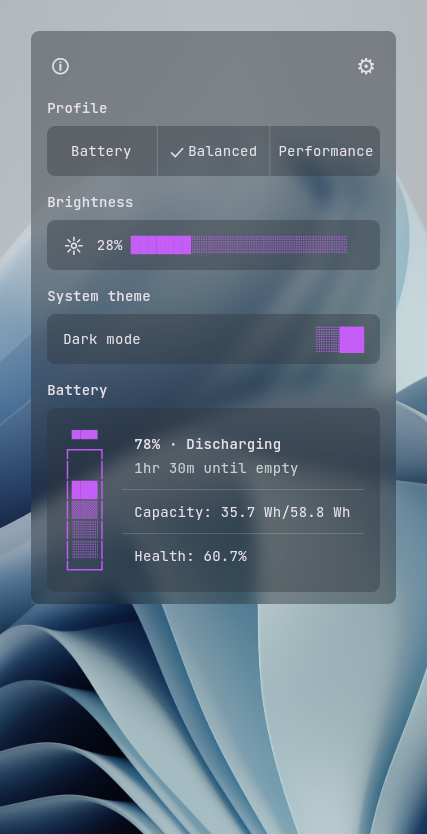
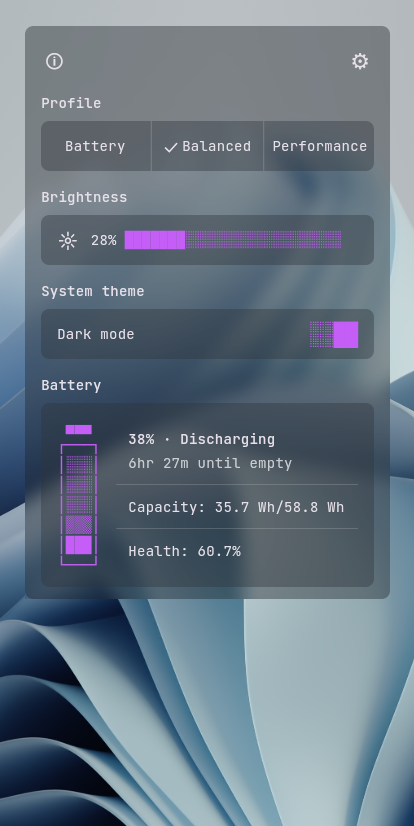
feat: add dynamic battery art and update screenshots

diff --git a/ascii_battery_applet_redesign/lib/pages/main_page.dart b/ascii_battery_applet_redesign/lib/pages/main_page.dart
@@ -7,27 +7,8 @@ import '../comp/comp_sub_header.dart';
 import '../comp/comp_tile.dart';
 import '../comp/comp_tile_container.dart';
 import '../constants.dart';
+import '../widgets/battery_art.dart';
 import '../widgets/top_row.dart';
-
-const batteryAscii = '''
- ▄▄▄
-┌───┐
-│   │
-│███│
-│▒▒▒│
-│░░░│
-│░░░│
-└───┘''';
-
-const chargingAscii = '''
- ▄▄▄
-┌───┐
-│ ⚡ │
-│███│
-│▒▒▒│
-│░░░│
-│░░░│
-└───┘''';
 
 class MainPage extends StatelessWidget {
   const MainPage({super.key});
@@ -35,14 +16,17 @@ class MainPage extends StatelessWidget {
   @override
   Widget build(BuildContext context) {
     final bool isCharging = true;
+    final int percent = 66;
     final bool isCustomColor = true;
     // final Color? customColor = isCustomColor ? kAccentColor : null;
     // final Color? customColor = isCustomColor ? Color(0xFFC45EF6) : null;
-    // final Color? customColor = isCustomColor ? Color(0xFF8FADD7) : null;
-    final Color? customColor = isCustomColor ? Color(0xFF78DC78) : null;
-    final icon = isCharging ? chargingAscii : batteryAscii;
-    final state = isCharging ? "66% ∙ Charging" : "78% ∙ Discharging";
-    final eta = isCharging ? "19m until full" : "1hr 30m until empty";
+    final Color? customColor = isCustomColor ? Color(0xFF8FADD7) : null;
+    // final Color? customColor = isCustomColor ? Color(0xFF78DC78) : null;
+    final icon = batteryIcon(percent, isCharging);
+    final state = isCharging
+        ? "$percent% ∙ Charging"
+        : "$percent% ∙ Discharging";
+    final eta = isCharging ? "43m until full" : "6hr 27m until empty";
 
     return CompPageShell(
       children: [

diff --git a/ascii_battery_applet_redesign/lib/widgets/battery_art.dart b/ascii_battery_applet_redesign/lib/widgets/battery_art.dart
@@ -1,0 +1,48 @@
+const int _rows = 5;
+const int _pctPerRow = 100 ~/ _rows; // 20
+const int _boltRowIndex = _rows ~/ 2; // middle row (index 2 of 0..4)
+
+enum _RowState { m1, m2, m3 }
+
+String _symbol(_RowState state) {
+  switch (state) {
+    case _RowState.m1:
+      return '░'; // empty / less-than-half charged row
+    case _RowState.m2:
+      return '▒'; // half-or-more charged row
+    case _RowState.m3:
+      return '█'; // fully charged row
+  }
+}
+
+_RowState _rowState(int percent, int rowIndexFromBottom) {
+  final low = rowIndexFromBottom * _pctPerRow; // bottom of this row's range
+  if (percent >= low + _pctPerRow) {
+    return _RowState.m3;
+  } else if (percent >= low + _pctPerRow ~/ 2) {
+    return _RowState.m2;
+  } else {
+    return _RowState.m1;
+  }
+}
+
+/// Renders the battery icon for [percent] (0-100), showing the lightning
+/// bolt on the middle row only when [charging] is true.
+String batteryIcon(int percent, bool charging) {
+  final int clamped = percent < 0 ? 0 : (percent > 100 ? 100 : percent);
+  final buffer = StringBuffer();
+
+  buffer.writeln(' ▄▄▄');
+  buffer.writeln('┌───┐');
+
+  // draw top row (index 4) down to bottom row (index 0)
+  for (int i = _rows - 1; i >= 0; i--) {
+    final state = _rowState(clamped, i);
+    final ch = _symbol(state);
+    final row = (i == _boltRowIndex && charging) ? '$ch⚡$ch' : '$ch$ch$ch';
+    buffer.writeln('│$row│');
+  }
+  buffer.write('└───┘');
+
+  return buffer.toString();
+}
